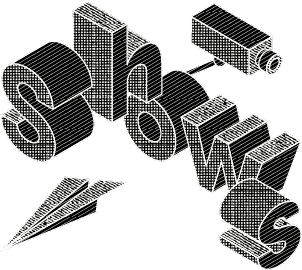
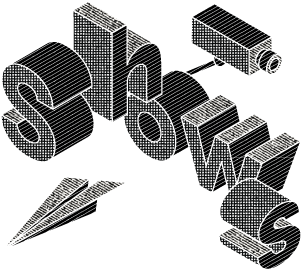
better image quality on mobile small css fixes

diff --git a/js/script.js b/js/script.js
@@ -82,7 +82,7 @@ jQuery.noConflict();
         }
         
         function renderPastShowHtml(show) {
-            return renderUpcomingShowHtml(show).css('opacity', '0.7');
+            return renderUpcomingShowHtml(show, past).css('opacity', '0.7');
         }
         
         function addPastEvents(songkickData) {
@@ -95,7 +95,10 @@ jQuery.noConflict();
 		$.getJSON('http://api.songkick.com/api/3.0/artists/' + songkick_artist_id + '/calendar.json?apikey=' + songkick_api_key + '&per_page=' + maxGigs + '&page=1&jsoncallback=?', addUpcomingEvents)
             .then(function () {
                 // Add past shows if there is room left
-                if (numGigs < maxGigs) {
+				if (numGigs == 0) {
+					$.getJSON('http://api.songkick.com/api/3.0/artists/' + songkick_artist_id + '/gigography.json?apikey=' + songkick_api_key + '&per_page=' + (maxGigs - numGigs) + '&order=desc&jsoncallback=?', addUpcomingEvents);
+				}
+                else if (numGigs < maxGigs) {
                     $.getJSON('http://api.songkick.com/api/3.0/artists/' + songkick_artist_id + '/gigography.json?apikey=' + songkick_api_key + '&per_page=' + (maxGigs - numGigs) + '&order=desc&jsoncallback=?', addPastEvents);
                 }
             });
@@ -151,23 +154,21 @@ jQuery.noConflict();
 		$('area').hover(
             function () {
                 var mapname = $(this).parent().attr('name') + 'selector',
-                    orisrc = $("#" + mapname).attr('src'),
                     newsrc = $(this).attr('data-image');
                 $("#" + mapname).attr('src', newsrc);
             },
             function () {
                 var mapname = $(this).parent().attr('name') + 'selector',
-                    orisrc = $("#" + mapname).attr('src');
+                    orisrc = $("#" + mapname).data('src');
                 $("#" + mapname).attr('src', orisrc);
             }
 		);
 
-//        $('area').bind('touchstart', function() {
-//            var mapname = $(this).parent().attr('name')+'selector';
-//            orisrc = $("#"+mapname).attr('src');
-//            newsrc = $(this).attr('data-image');
-//            $("#"+mapname).attr('src',newsrc);
-//        });
+        //$('area').on('click', function() {
+			//var mapname = $(this).parent().attr('name') + 'selector',
+			//	orisrc = $("#" + mapname).data('orisrc');
+			//$("#" + mapname).attr('src', orisrc);
+        //});
 
 
 //        $('area').bind('touchend', function() {
@@ -269,27 +270,6 @@ jQuery.noConflict();
 		}
 
 		addBandcampPlayers();
-
-//        var ztot = 10;
-//        $('.dragimg').click(function () {
-//            ztot = ztot + 1;
-//            $(this).css('z-index', ztot);
-//        });
-
-//		 $('.dragimg').draggable();
-//		 $('.but').css('display','block');
-
-//		 $('header').css('display','none');
-//        $('.but').click(function () {
-//            var pos = '';
-//            $('.dragimg', $(this).parent()).each(function () {
-//                var posi = $(this).position(),
-//                    id = $(this).attr('id'),
-//                    zid = $(this).css('z-index');
-//                pos = pos + '#' + id + "{left: " + Math.floor(posi.left) + "px;z-index:" + zid + "; top: " + Math.floor(posi.top) + 'px;} \n';
-//            });
-//            alert(pos);
-//        });
     
         addShows();
 
@@ -304,6 +284,12 @@ jQuery.noConflict();
             }, 2000);
 		});
 
+		$('.logo').click(function () {
+			$('html, body').animate({
+				scrollTop: $("#home").offset().top + heightoffset
+			}, 2000);
+		});
+
         $("#sidenav").children().each(function () {
             aArray.push($(this).attr('rel'));
         });
@@ -315,7 +301,7 @@ jQuery.noConflict();
             }
 		});
 
-		$(window).scroll(function () {
+		$(window).scroll(function (e) {
 			var windowPos = $(window).scrollTop(), // get the offset of the window from the top of page
 			    windowHeight = $(window).height(), // get the height of the window
 			    docHeight = $(document).height();
@@ -331,6 +317,11 @@ jQuery.noConflict();
 			});
             
             $('#goup').css('display', windowPos > 3600 ? 'block' : 'none');
+
+			if ($('#underground').css('display') === 'none') {
+
+				$('.contactbutton').css('display', ((windowPos + windowHeight) > (docHeight - 200)) ? 'none' : 'block');
+			}
 		});
 	});
 }(jQuery));

diff --git a/static/index.html b/static/index.html
@@ -18,7 +18,7 @@
 
 		<header class="header" role="banner">
 			<div class="inner">
-				<div class="  ">
+				<div class="logo">
 					<img src="images/logo.png" alt="">
 				</div>
 			</div>
@@ -631,39 +631,45 @@
 			<div class="evenborder footerborder lastborder" ></div>
 			<div class="inner">
 				<div>
-					<div class="leftreg">
-<pre style='display:block;float:left;line-height: 15px;'>
-Nightmares:
-Optimist:
-Musician:
-</pre>
-<pre style='display:block;float:left;line-height: 15px;'>
-Come from the stomach.
-Synonym for idiot.
-The characteristic of the true musician
+
+					<div style="padding:16px">
+
+						<div class="leftmobile" style="padding-left:16px;margin-bottom:16px;">
+							Contact us at <a href="mailto:contact@riverdistrictmusic.com">contact@riverdistrictmusic.com</a>
+						</div>
+
+						<div style='display:block;float:left;line-height: 16px;width:100px;height:100px;'>
+	<p>Nightmares: </p>
+	<p>Optimist:</p>
+	<p>Musician:</p>
+</div>
+<div style='display:block;float:left;line-height: 16px;width:210px;height:100px;'>
+	<p>Come from the stomach.</p>
+	<p>Synonym for idiot.</p>
+	<p>The characteristic of the true musician
 is to compose no music, to play no instrument,
-and to despise virtuosos.
-</pre>
+and to despise virtuosos.</p>
+</div>
 <pre style='clear:both'>
 <span style='font-size:10px'>- Flaubert (from the Dictionary of Received Ideas)</span>
 	</pre>
 					</div>
 
-					<div class="leftmobile">
-<pre style='display:block;float:left'>
-Contact us at <a href="mailto:contact@riverdistrictmusic.com">contact@riverdistrictmusic.com</a>
+					<!--<div class="leftmobile">-->
+<!--<pre style='display:block;float:left'>-->
+<!--Contact us at <a href="mailto:contact@riverdistrictmusic.com">contact@riverdistrictmusic.com</a>-->
 
-Nightmares:	Come from the stomach.
-Optimist:		Synonym for idiot.
-Musician:		The characteristic of the true
-musician is to compose no music,
-				to play no instrument,
-				and to despise virtuosos.
-</pre>
-<pre style='clear:both'>
-<span style='font-size:10px'>- Flaubert (from the Dictionary of Received Ideas)</span>
-	</pre>
-					</div>
+<!--Nightmares:	Come from the stomach.-->
+<!--Optimist:		Synonym for idiot.-->
+<!--Musician:		The characteristic of the true-->
+<!--musician is to compose no music,-->
+				<!--to play no instrument,-->
+				<!--and to despise virtuosos.-->
+<!--</pre>-->
+<!--<pre style='clear:both'>-->
+<!--<span style='font-size:10px'>- Flaubert (from the Dictionary of Received Ideas)</span>-->
+	<!--</pre>-->
+					<!--</div>-->
 				</div>
 			</div>
 		</footer>

diff --git a/css/layout.css b/css/layout.css
@@ -2,9 +2,25 @@
 
 @media only screen and (min--moz-device-pixel-ratio: 2), only screen and (min-resolution: 192dpi), only screen and (-o-min-device-pixel-ratio: 2/1), only screen and (-webkit-min-device-pixel-ratio: 2), only screen and (min-device-pixel-ratio: 2) {
     .dragimg img {
-        width:50%;
-        height:50%;
+        /*width:50%;*/
+        /*height:50%;*/
+
+        -webkit-transform: scale(0.5);
+        -moz-transform: scale(0.5);
+        -ms-transform: scale(0.5);
+        -o-transform: scale(0.5);
+        transform: scale(0.5);
+        filter: progid:DXImageTransform.Microsoft.Matrix(M11=0.9999619230641713, M12=-0.008726535498373935, M21=0.008726535498373935, M22=0.9999619230641713,SizingMethod='auto expand');
+
+        -ms-transform-origin: 0% 0%;
+        -webkit-transform-origin: 0% 0%;
+        transform-origin: 0% 0%;
+
     }
+    /*.dragimg.mapobject img {*/
+        /*width:100%;*/
+        /*height:100%;*/
+    /*}*/
 }
 
 #overlay{
@@ -35,17 +51,24 @@ padding:10px;}
     left:30px;
     z-index: 951;
 }
+
 .contactbutton div{
     float:left;
 }
 .contactbutton .button{
     position:relative;
-    top: 12px;
+    top: 6px;
 }
 .contactbutton .text{
-    padding:8px;
+    margin-left:8px;
     font-size:18px;
+    padding: 0;
 }
+
+.contactbutton .text a:hover{
+    border-bottom: 2px solid rgba(255, 255, 255, 1);
+}
+
 .contactbutton a{
     color: white !important;
 }
@@ -70,7 +93,12 @@ padding:10px;}
 
 #dow{top: -185px;z-index:0;}
 
-#goup{font-size:24px;text-align:center;display:none;z-index:1100;margin:0;left:50%;width:300px;margin-left:-150px;position:fixed;top:50px;cursor:pointer;}
+#goup{font-size:24px;text-align:center;display:none;z-index:1100;margin:0;left:50%;width:272px;margin-left:-136px;position:fixed;top:50px;cursor:pointer;}
+
+#goup:hover{
+    border-bottom: 3px solid rgba(255, 255, 255, 1);
+    padding-bottom: 8px;
+}
 
 #mobintro{text-align:left!important;line-height:22px;width: 290px;
 margin-left: -145px;left: 50%;position: relative;top: -20px;font-size: 19px;}
@@ -187,13 +215,19 @@ margin-left: -145px;left: 50%;position: relative;top: -20px;font-size: 19px;}
 footer {
     width:100%;
     background-color: black;
+    font-size:13px;
 }
 
-pre{
-    padding-left: 30px !important;
+footer a {
+    color: white;
+}
+
+footer p{
+    display:block;
+    margin-bottom:4px;
+    padding-left: 16px !important;
     line-height: 15px;
 }
-.leftreg{font-size:13px;}
 
 .threedee {
      font-family: "SofiaProSemiBold";
